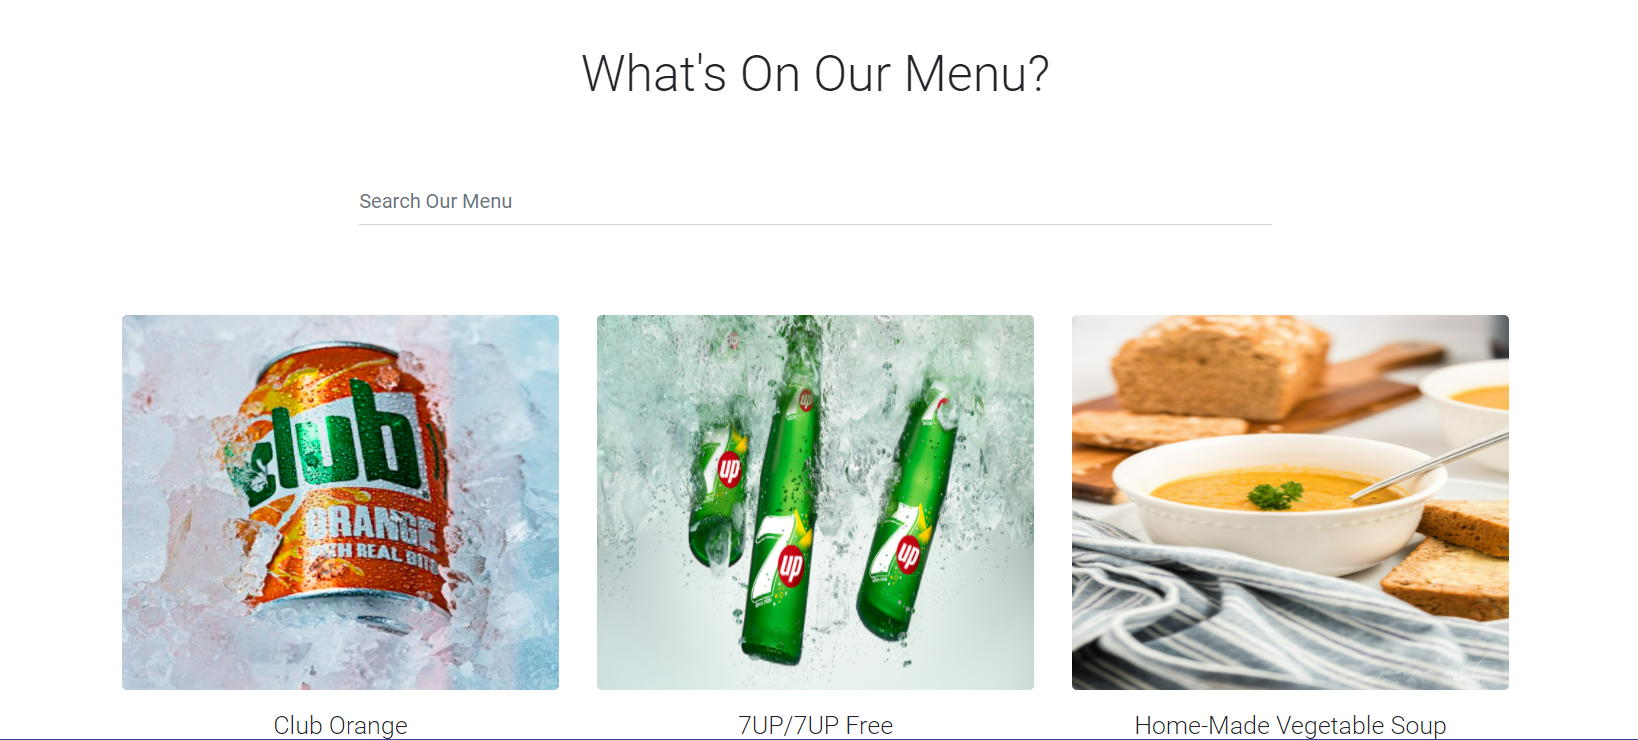
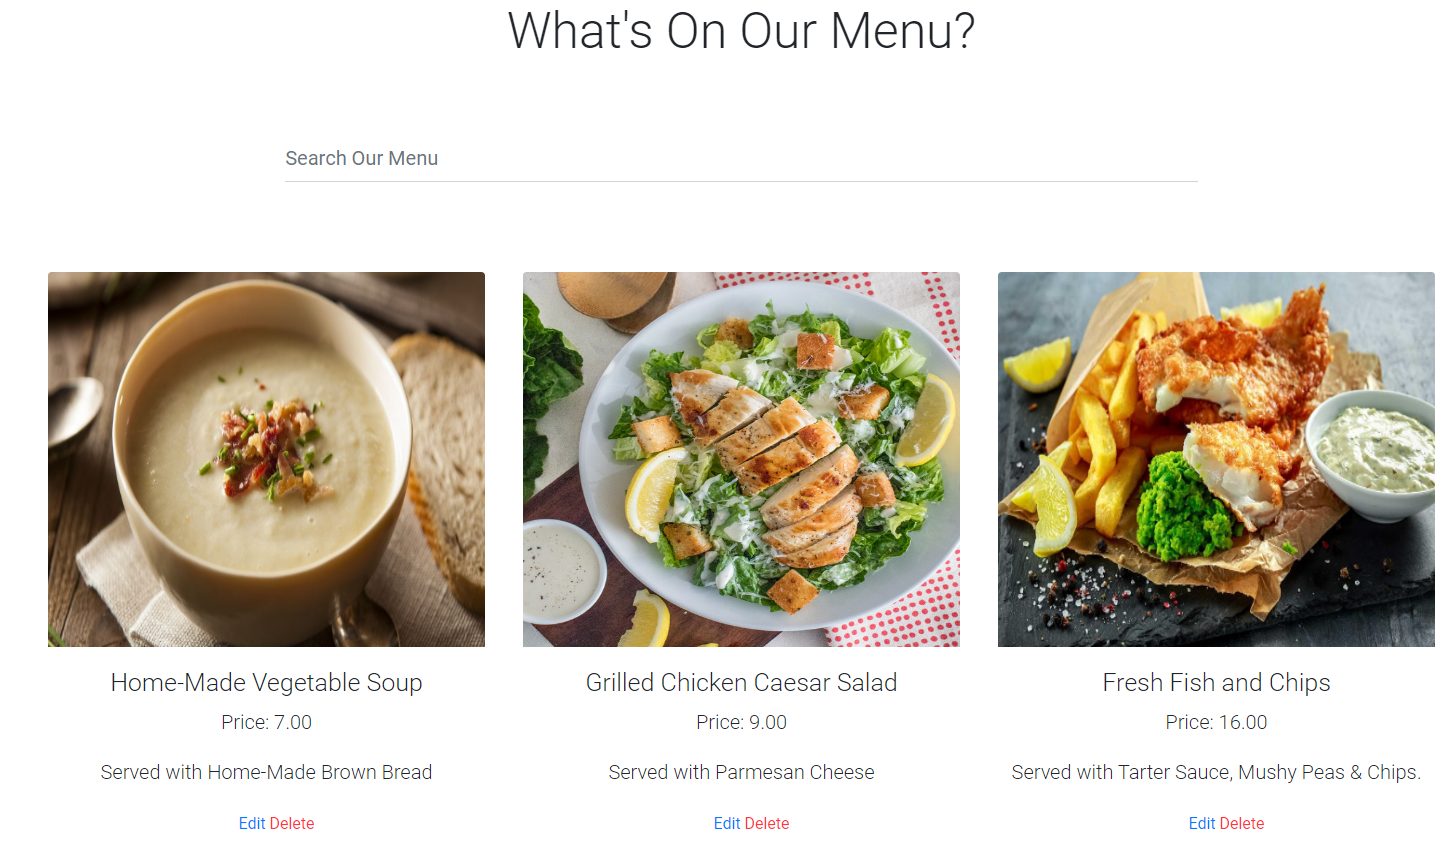
add and edit the readme file

diff --git a/templates/account/signup.html b/templates/account/signup.html
@@ -1,21 +1,26 @@
-{% extends "account/base.html" %}
+{% extends "base.html" %}
 
 {% load i18n %}
 
 {% block head_title %}{% trans "Signup" %}{% endblock %}
 
 {% block content %}
-<h1>{% trans "Sign Up" %}</h1>
-
-<p>{% blocktrans %}Already have an account? Then please <a href="{{ login_url }}">sign in</a>.{% endblocktrans %}</p>
-
-<form class="signup" id="signup_form" method="post" action="{% url 'account_signup' %}">
-  {% csrf_token %}
-  {{ form.as_p }}
-  {% if redirect_field_value %}
-  <input type="hidden" name="{{ redirect_field_name }}" value="{{ redirect_field_value }}" />
-  {% endif %}
-  <button type="submit">{% trans "Sign Up" %} &raquo;</button>
-</form>
+<div class="row justify-content-center">
+  <div class="col-md-6 col-sm-12">
+    <hr>
+    <h1>{% trans "Sign Up" %}</h1>
+    <hr>
+    <p>{% blocktrans %}Already have an account? Then please <a href="{{ login_url }}">sign in</a>.{% endblocktrans %}</p>
+    <form class="signup" id="signup_form" method="post" action="{% url 'account_signup' %}">
+      {% csrf_token %}
+      {{ form|crispy }}
+      {% if redirect_field_value %}
+      <input type="hidden" name="{{ redirect_field_name }}" value="{{ redirect_field_value }}" />
+      {% endif %}
+      <a class="btn btn-outline-black rounded-0" href="{% url 'account_login' %}">Back to Login</a>
+      <button class="btn btn-outline-black rounded-0" type="submit">{% trans "Sign Up" %}</button>
+    </form>
+  </div>
+</div>
 
 {% endblock %}

diff --git a/templates/account/logout.html b/templates/account/logout.html
@@ -15,7 +15,8 @@
       {% if redirect_field_value %}
       <input type="hidden" name="{{ redirect_field_name }}" value="{{ redirect_field_value }}"/>
       {% endif %}
-      <button type="submit">{% trans 'Sign Out' %}</button>
+      <a class="btn btn-outline-black rounded-0" href="{% url 'index' %}">Cancel</a>
+      <button class="btn btn-outline-black rounded-0" type="submit">{% trans 'Sign Out' %}</button>
     </form>
   </div>
 </div>

diff --git a/templates/socialaccount/signup.html b/templates/socialaccount/signup.html
@@ -12,7 +12,7 @@
 
 <form class="signup" id="signup_form" method="post" action="{% url 'socialaccount_signup' %}">
   {% csrf_token %}
-  {{ form.as_p }}
+  {{ form|crispy }}
   {% if redirect_field_value %}
   <input type="hidden" name="{{ redirect_field_name }}" value="{{ redirect_field_value }}" />
   {% endif %}

diff --git a/templates/account/signup_closed.html b/templates/account/signup_closed.html
@@ -9,7 +9,6 @@
     <div class="row justify-content-center">
         <div class="col-12 text-center">
             <h1>{% trans "Sign Up Closed" %}</h1>
-
             <p>{% trans "We are sorry, but the sign up is currently closed." %}</p>
         </div>
     </div>

diff --git a/fooddelivery/settings.py b/fooddelivery/settings.py
@@ -167,6 +167,8 @@ CLOUDINARY_STORAGE = {
 EMAIL_BACKEND = 'django.core.mail.backends.console.EmailBackend'
 
 ACCOUNT_ADAPTER = 'restaurant.account_adapter.NoNewUsersAccountAdapter'
-LOGIN_REDIRECT_URL = 'dashboard'
+
+LOGIN_REDIRECT_URL = '/'
+LOGOUT_REDIRECT_URL = '/'
 
 CRISPY_TEMPLATE_PACK = 'bootstrap4'

diff --git a/README.md b/README.md
@@ -7,6 +7,17 @@ This is a full-stack framework project built using Django, Python, HTML, CSS and
 
 ---
 ## UX
+- [Strategy](#strategy)
+- [User Stories](#userstories)
+- [Scope](#scope)
+- [Structure](#structure)
+- [Homepage](#home-page)
+- [Technologies Used](#technologies-used)
+- [Testing](#testing)
+- [Bugs and Fixes](bugs-and-fixes)
+- [Deployment](#deployment)
+- [Credits](#credits)
+- [Acknowledgements](#acknowledgements)
 
 ## Strategy
 Using the core UX principles I first started with Strategy, thinking about the target audience for this online food delivery service & the features they would benefit from.
@@ -90,7 +101,7 @@ Initially, the colour palette I chose for this delivery service website was gree
 I chose the fonts Roboto & sans-serif; I wanted a bold/statement font to use for all body to be clear and understanding.
 
 
-### Home page
+## Home page
 
 **Navigation bar**: The navigation bar has links to all the active pages for the user and are clearly labelled, the menu option has Food or Drink menu. The 'about us' tells the user what the website aims to do for comsumers. The Naviation bar is a blue olour and the test is white. On the nav bar consumers can also place an order. When a nav link is hovered on it clearly indicates to the user what they are about to click on. 
 
@@ -100,9 +111,13 @@ The navigation bar is fully responsive and collapses on mobile screens to a hamb
 
 ![](readme_picture/moblieresponsive.png)
 
-**Menu**: The menu allows consumers to browse and pick which food and drink they would like to have to order on the site.
+**Menu**: The menu allows consumers to browse and pick which food and drink they would like to have to order on the site. The owner has the option to edit and delete a product. 
 
 ![](readme_picture/menuitems.png)
+
+**Edit Product**: This allows the owner to update prices, images and description. 
+
+![](readme_picture/edit.png)
 
 **Place an Order**: Consumers can place an order by clicking the place an order on the nav bar. Then it will re-direct to another page where the consumer can choose what they would like to order. After the consumer has choose what they would like to order, the consumer will be able to put in their details and where they would like the food to be delivered to. 
 
@@ -112,17 +127,21 @@ The page is then re-directed and the consumer is given a summary of wht they hav
 
 ![](readme_picture/summaryoforder.png)
 
-**Footer**: The footer displays restaurant login for admin user. 
+**Footer**: The footer displays restaurant login for the owner. 
 
 ![](readme_picture/footer.png)
 
 **Restaurant login**: Available only for the owner of the website to see how much revenue and orders have been placed on the website.
 
-![](readme_picture/websiterevenue.png)
+![](readme_picture/restaurant-login.png)
 
 The admin has full details about the consumer and the admin can marked as shipped when the order is ready for delivery.
 
 ![](readme_picture/shippedorder.png)
+
+**Add Product**: This allows the owner to add a product to the webiste. 
+
+![](readme_picture/add-product.png)
 
 ## Technologies Used
 
@@ -169,10 +188,13 @@ I have used several technologies that have enabled this design to work:
 ---
 
 ## Testing
-I have used manual testing to ensure the website's functionality meets the desired intent.
+
+### Manual Testing
+
+I have tested this project manually myself and have also had it peer-reviewed & tested by friends and family on multiple devices and screen sizes and using differernt browsers. 
 
 ### Code Validation
-All of my code has been validated using an online validator specific to the language, all code now passes with zero errors. 
+Automatic testing of HTML and CSS was checked using W3C Validator ensuring there were no errors or warnings within the code. When the site was ran through the validator there were no errors present.
 
 - [W3C Markup Validation Service](https://validator.w3.org/) 
     - Used to validate all HTML code written and used in this webpage.
@@ -190,11 +212,7 @@ All of my code has been validated using an online validator specific to the lang
 - [Pep8](http://pep8online.com/)
     - Used to test my code for any issues or errors.
 
-### Manual Testing
-
-I have tested this project manually myself and have also had it peer-reviewed & tested by friends and family on multiple devices and screen sizes.
-
-### Bugs and Fixes
+## Bugs and Fixes
 
 - I noticed when deploying the app the first time it worked and after that it won't deploy.
 - Menu item images would not load on 'heroku app'.
@@ -204,7 +222,7 @@ I have tested this project manually myself and have also had it peer-reviewed & 
 
 The main branch of this repository has been used for the deployed version of this application.
 
-## Using Github & Gitpod
+### Using Github & Gitpod
 
 - To deploy my command-line interface application, I had to use the [Code Institute Python Essentials Template](https://github.com/Code-Institute-Org/python-essentials-template), as this enables the application to be properly viewed on Heroku using a mock terminal. 
 
@@ -244,7 +262,7 @@ The main branch of this repository has been used for the deployed version of thi
     - Link Heroku app to your github and search for the repository.
     - Click on deploy to build the app.
 
-    ## Credits
+## Credits
 
 Throughout the process of building this website, I have used various sources online to help me fix bugs & tackle problems, in addition to various modules to build the functionality of this website:
 
@@ -263,5 +281,5 @@ Throughout the process of building this website, I have used various sources onl
 [Testing](https://www.youtube.com/watch?v=0MrgsYswT1c)
 
 
-# Acknowledgements
+## Acknowledgements
 - I would like to thank my mentor Adegbenga Adeye and the slack community for their great advice, tips and the code review.
